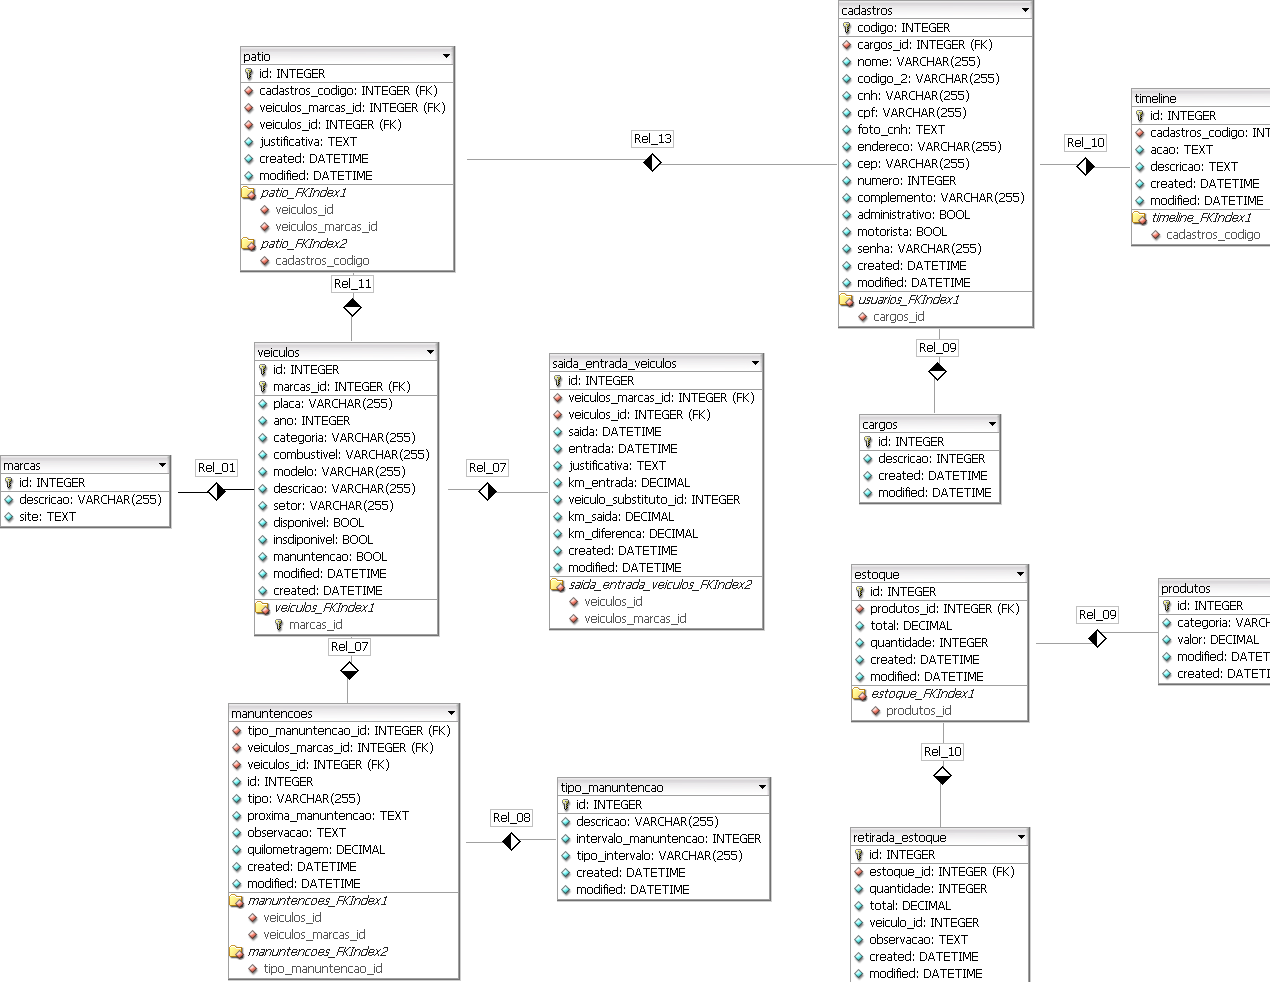
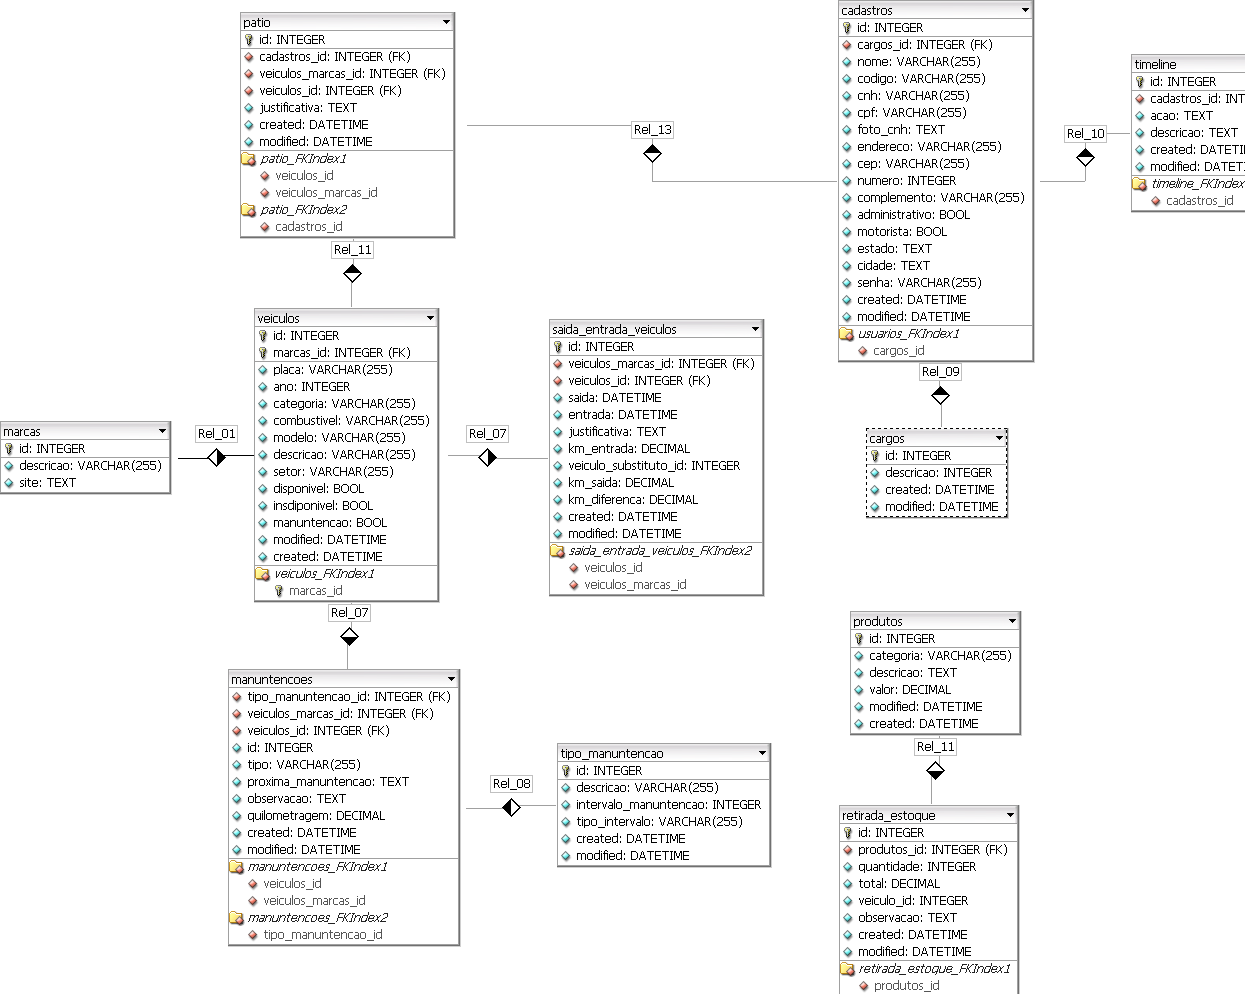
Atualizando modelagem

diff --git a/src/main/java/com/app/service/ProdutoService.java b/src/main/java/com/app/service/ProdutoService.java
@@ -5,26 +5,26 @@ import java.util.List;
 import java.util.Map;
 import java.util.Optional;
 
-import com.app.entity.Cargo;
+import com.app.entity.Produto;
 import com.app.entity.Timeline;
-import com.app.repository.CargoRepository;
+import com.app.repository.ProdutoRepository;
 import com.app.repository.TimelineRepository;
 
 import org.springframework.stereotype.Service;
 
 @Service
-public class CargoService {
+public class ProdutoService {
     
-    CargoRepository repository;
+    ProdutoRepository repository;
     TimelineRepository repositoryTimeline;
 
-    CargoService(CargoRepository cargoRepository, TimelineRepository timelineRepository){
-        this.repository = cargoRepository;
+    ProdutoService(ProdutoRepository produtoRepository, TimelineRepository timelineRepository){
+        this.repository = produtoRepository;
         this.repositoryTimeline = timelineRepository;
     }
 
     public Map<String, Object> all(){
-        List<Cargo> registros = repository.findAll();
+        List<Produto> registros = repository.findAll();
         Map<String, Object> result = new HashMap<>();
         
         try{
@@ -40,27 +40,27 @@ public class CargoService {
         return result;
     }
 
-    public Map<String, Object> save(Cargo cargo){
+    public Map<String, Object> save(Produto produto){
         Map<String, Object> result =  new HashMap<>();
 
         try{
             Timeline timeline = new Timeline();
             
-            timeline.setDescricao("Cargo: " + cargo.getDescricao());
+            timeline.setDescricao("Produto: " + produto.getDescricao());
 
-            if(cargo.getId() != null){
-                timeline.setTipo("Alteração no cargo");
-                result.put("message", "Cargo alterado com sucesso!");
+            if(produto.getId() != null){
+                timeline.setTipo("Alteração no produto");
+                result.put("message", "Produto alterado com sucesso!");
 
             }else{
                 timeline.setTipo("Novo Cadastro");
-                result.put("message", "Cargo criado com sucesso!");
+                result.put("message", "CaProdutorgo criado com sucesso!");
             }
 
             result.put("success", true);
 
             repositoryTimeline.save(timeline);
-            repository.save(cargo);
+            repository.save(produto);
 
         }catch(Exception error){
             result.put("success", false);
@@ -70,7 +70,7 @@ public class CargoService {
         return result;
     }
 
-    public Cargo get(Integer id){
+    public Produto get(Integer id){
         return repository.findById(id).get();
     }
 
@@ -78,22 +78,22 @@ public class CargoService {
         Map<String, Object> result =  new HashMap<>();
 
         try {
-            Optional<Cargo> cargo = repository.findById(id);
+            Optional<Produto> produto = repository.findById(id);
 
-            if(!cargo.isPresent()){
+            if(!produto.isPresent()){
                 result.put("success", false);
-                result.put("message", "Nenhum cargo foi encontrado com essa identificação!");
+                result.put("message", "Nenhum produto foi encontrado com essa identificação!");
 
                 return result;
             }
 
             Timeline timeline = new Timeline();    
-            timeline.setDescricao("Cargo: " + cargo.get().getDescricao());
-            timeline.setTipo("Deletar Cargo");
+            timeline.setDescricao("Produto: " + produto.get().getDescricao());
+            timeline.setTipo("Deletar Produto");
             repositoryTimeline.save(timeline);
 
             result.put("success", true);
-            result.put("message", "Cargo excluido com sucesso!");
+            result.put("message", "Produto excluido com sucesso!");
 
             repository.deleteById(id);
 

diff --git a/src/main/java/com/app/controller/ProdutoController.java b/src/main/java/com/app/controller/ProdutoController.java
@@ -1,7 +1,7 @@
 package com.app.controller;
 
-import com.app.entity.Cargo;
-import com.app.service.CargoService;
+import com.app.entity.Produto;
+import com.app.service.ProdutoService;
 
 import org.springframework.beans.factory.annotation.Autowired;
 import org.springframework.http.ResponseEntity;
@@ -15,11 +15,11 @@ import org.springframework.web.bind.annotation.RestController;
 
 @RestController
 @CrossOrigin(origins = "*")
-@RequestMapping("/cargos")
-public class CargoController {
+@RequestMapping("/produtos")
+public class ProdutoController {
     
     @Autowired
-    private CargoService service;
+    private ProdutoService service;
 
     @GetMapping("/index")
     public ResponseEntity<?> getAll(){
@@ -27,17 +27,17 @@ public class CargoController {
     }
 
     @PostMapping("/save")
-    public ResponseEntity<?> save(@RequestBody Cargo cargo) {
-        return ResponseEntity.unprocessableEntity().body(service.save(cargo));
+    public ResponseEntity<?> save(@RequestBody Produto produto) {
+        return ResponseEntity.unprocessableEntity().body(service.save(produto));
     }
 
     @PostMapping("/edit/{id}")
-    public ResponseEntity<?> edit(@PathVariable(value = "id")  Integer id, @RequestBody Cargo cargo)
+    public ResponseEntity<?> edit(@PathVariable(value = "id")  Integer id, @RequestBody Produto produto)
     {   
-        Cargo cargoBody = cargo;
-        cargoBody.setId(id);
+        Produto ProdutoBody = produto;
+        ProdutoBody.setId(id);
 
-        return ResponseEntity.unprocessableEntity().body(service.save(cargoBody));
+        return ResponseEntity.unprocessableEntity().body(service.save(ProdutoBody));
     }
 
     @PostMapping("/delete/{id}")

diff --git a/src/main/java/com/app/service/CadastroService.java b/src/main/java/com/app/service/CadastroService.java
@@ -14,7 +14,7 @@ import org.springframework.stereotype.Service;
 
 @Service
 public class CadastroService {
-    
+
     CadastroRepository repository;
     TimelineRepository repositoryTimeline;
 
@@ -45,7 +45,6 @@ public class CadastroService {
 
         try{
             Timeline timeline = new Timeline();
-            
             timeline.setDescricao("Cadastro: " + cadastro.getNome());
 
             if(cadastro.getId() != null){
@@ -70,7 +69,7 @@ public class CadastroService {
         return result;
     }
 
-    public Cadastro get(Integer id){
+	public Cadastro get(Integer id){
         return repository.findById(id).get();
     }
 
@@ -89,7 +88,7 @@ public class CadastroService {
 
             Timeline timeline = new Timeline();    
             timeline.setDescricao("Cadastro: " + cadastro.get().getNome());
-            timeline.setTipo("Novo Cadastro");
+            timeline.setTipo("Deletar Cadastro");
             repositoryTimeline.save(timeline);
 
             result.put("success", true);

diff --git a/src/main/java/com/app/entity/RetiradaProduto.java b/src/main/java/com/app/entity/RetiradaProduto.java
@@ -13,8 +13,8 @@ public class RetiradaProduto {
     private Integer id;
 
     @ManyToOne
-    @JoinColumn(name="estoque_id")
-    private Estoque estoque; 
+    @JoinColumn(name="produto_id")
+    private Produto produto; 
 
     @ManyToOne
     @JoinColumn(name="veiculo_id")
@@ -43,12 +43,12 @@ public class RetiradaProduto {
 		this.id = id;
 	}
 
-	public Estoque getEstoque() {
-		return estoque;
+	public Produto getEstoque() {
+		return produto;
 	}
 
-	public void setEstoque(Estoque estoque) {
-		this.estoque = estoque;
+	public void setEstoque(Produto produto) {
+		this.produto = produto;
 	}
 
 	public Veiculo getVeiculo() {

diff --git a/src/main/java/com/app/entity/Produto.java b/src/main/java/com/app/entity/Produto.java
@@ -13,7 +13,10 @@ public class Produto{
     private Integer id;
 
     @Column(name = "categoria", nullable = true)
-    private String categoria;
+	private String categoria;
+	
+	@Column(name = "descricao", nullable = true)
+    private String descricao;
 
     @Column(name = "valor", nullable = true)
     private DecimalFormat valor;
@@ -62,5 +65,13 @@ public class Produto{
 
 	public void setModified(LocalDateTime modified) {
 		this.modified = modified;
+	}
+
+	public String getDescricao() {
+		return descricao;
+	}
+
+	public void setDescricao(String descricao) {
+		this.descricao = descricao;
 	}
 }

diff --git a/src/main/java/com/app/entity/Cadastro.java b/src/main/java/com/app/entity/Cadastro.java
@@ -38,6 +38,12 @@ public class Cadastro implements Serializable{
     @Column(name = "cep", nullable = true)
     private String cep;
 
+    @Column(name = "estado", nullable = true)
+    private String estado;
+
+    @Column(name = "cidade", nullable = true)
+    private String cidade;
+
     @Column(name = "numero", nullable = true)
     private Integer numero;
 

diff --git a/src/main/java/com/app/controller/CadastroController.java b/src/main/java/com/app/controller/CadastroController.java
@@ -21,7 +21,7 @@ public class CadastroController {
     @Autowired
     private CadastroService service;
 
-    @GetMapping("index")
+    @GetMapping("/index")
     public ResponseEntity<?> getAll(){
         return ResponseEntity.unprocessableEntity().body(service.all());
     }

diff --git a/src/main/java/com/app/controller/TimelineController.java b/src/main/java/com/app/controller/TimelineController.java
@@ -17,7 +17,7 @@ public class TimelineController {
     @Autowired
     private TimelineService service;
 
-    @GetMapping("index")
+    @GetMapping("/index")
     public ResponseEntity<?> getAll(){
         return ResponseEntity.unprocessableEntity().body(service.all());
     }
